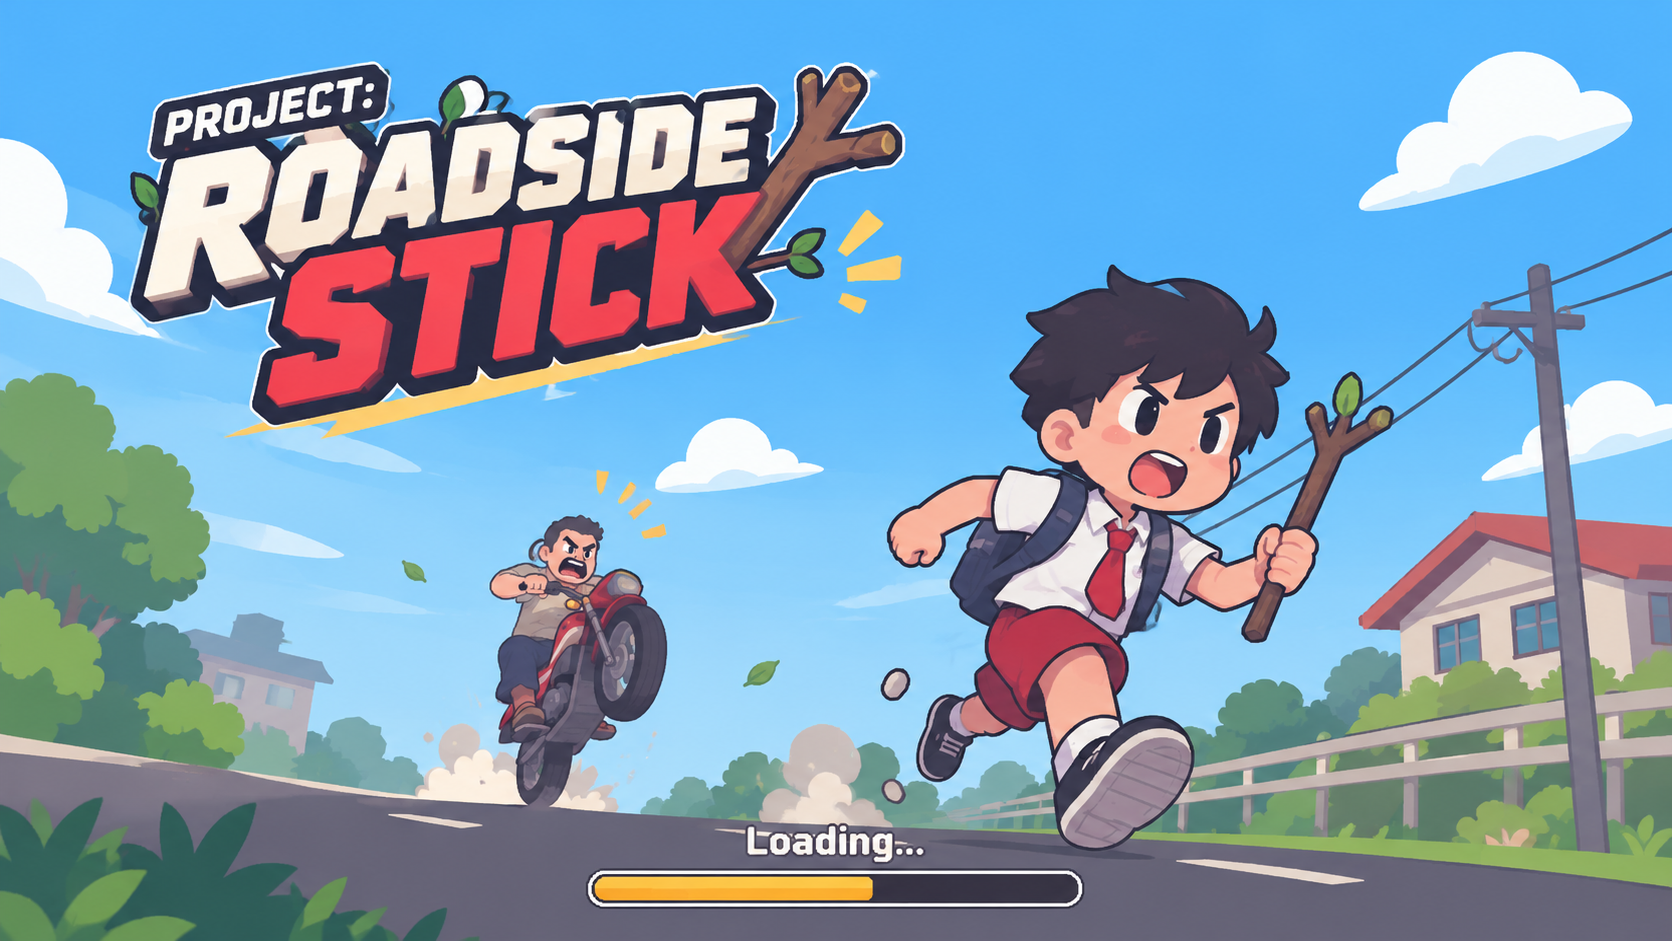
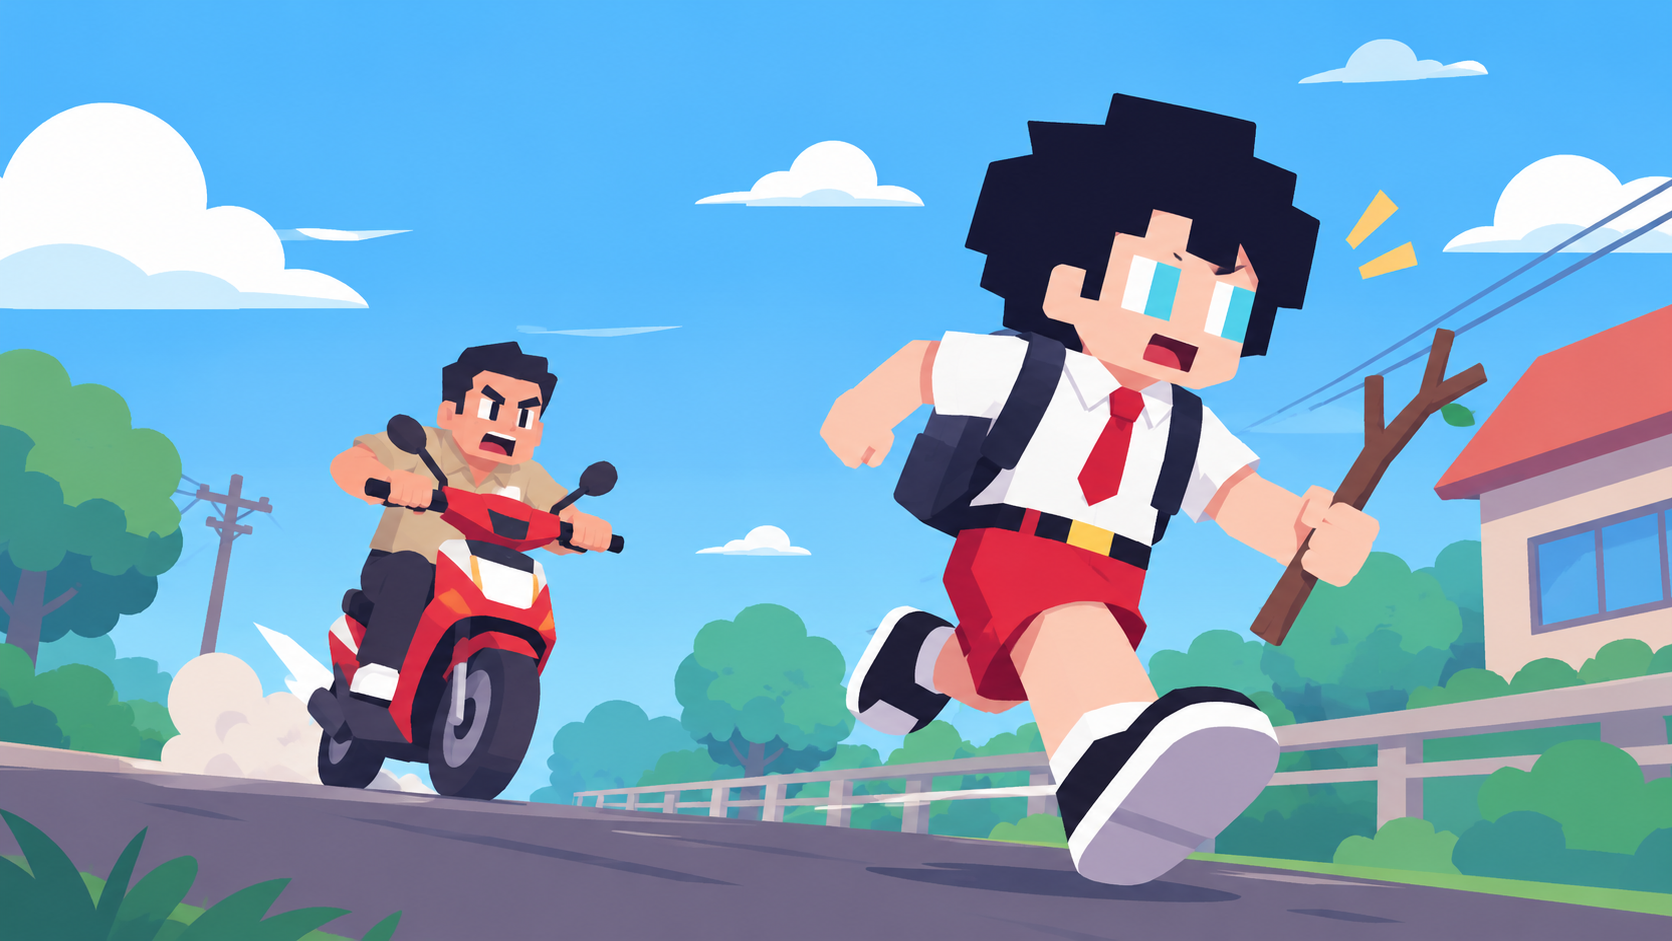
feat(lobby): update latest assets and switch branch to danans-version

diff --git a/AI_NOTES/PROGRESS.md b/AI_NOTES/PROGRESS.md
@@ -33,3 +33,15 @@
 - **Spinner / Indicator:** Dipindahkan ke sisi kanan loading bar (X: 968, Y: 514, W: 24, H: 24) sejajar vertikal dengan bar di dalam layar 1024x576.
 - **Tipografi:** Menggunakan font cr.ttf, warna putih murni 255;255;255, outline nonaktif (isOutlineEnabled: false).
 - **Validasi:** Kompilasi libGD 5.6.287 sukses untuk seluruh 7 scene dengan 0 error/diagnostics.
+
+### Update 2026-11-23 03:35 — Tahap 3: Mockup Interaktif Lobby
+- **Karakter Idle (Robi):** Dicrop dari sprite sheet acuan (
+obi_sd.png), ditampilkan di sisi kiri Lobby dengan portrait waist-up besar (kepala-pinggang) tajam pixel-art.
+- **4 Tombol Interaktif 3D:**
+  1. Tombol Atas: Btn_Play (Mainkan) — Kuning 3D (420×64 px)
+  2. Tombol Kiri Bawah: Btn_Shop (Toko) — Kuning 3D (200×56 px)
+  3. Tombol Kanan Bawah: Btn_Index (Koleksi) — Ungu 3D (200×56 px)
+  4. Tombol Bawah: Btn_Upgrade (Upgrade) — Kuning 3D (420×64 px, sama besar dengan Mainkan)
+- **Interaksi Hover & Click:** Setiap tombol memiliki 3 state animasi (Normal, Hover, Pressed). Kursor di atas tombol otomatis berganti state Hover, dan saat klik mouse kiri ditekan otomatis berganti state Pressed (efek tombol tertekan 3D).
+- **Tipografi:** Teks tombol menggunakan font cr.ttf warna putih murni tanpa stroke.
+- **Git:** Perubahan di-commit dan di-push ke branch Danans-Version di remote origin.
